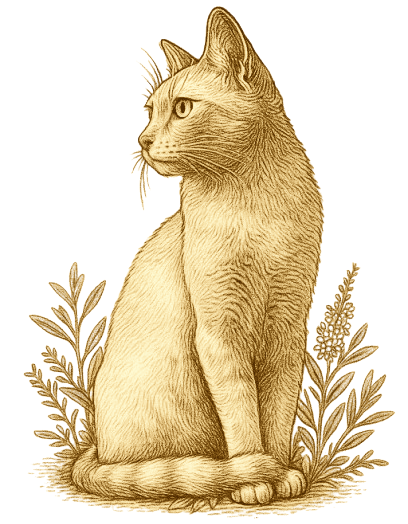
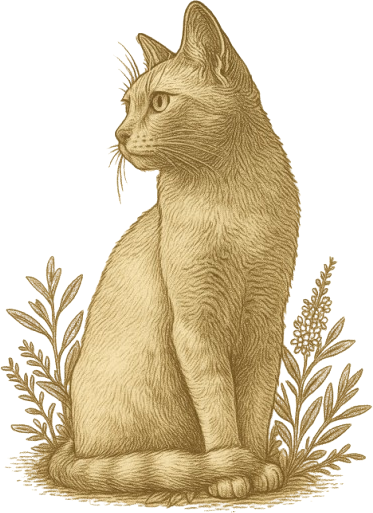
School: restore original Linus illustration
Claude-Session: https://claude.ai/code/session_016R5T8HULVGKfAE3PW3pdJb

diff --git a/site/school/index.html b/site/school/index.html
@@ -62,7 +62,7 @@
 <p class="life-description">These days I’m taking courses at <a href="https://smashingconf.com/online-workshops">smashingconf.com</a> &amp; <a href="https://www.moonlearning.io/">moonlearning.io</a>, and I hope that soon I’ll be able to get back to research and complete my PhD.</p>
         </div>
         <div class="life-header-right">
-            <img src="/img/school/linus-school.png?v=t1" alt="Linus" class="linus-image-school">
+            <img src="/img/school/linus-school.png?v=t2" alt="Linus" class="linus-image-school">
         </div>
     </div>
 </section>
